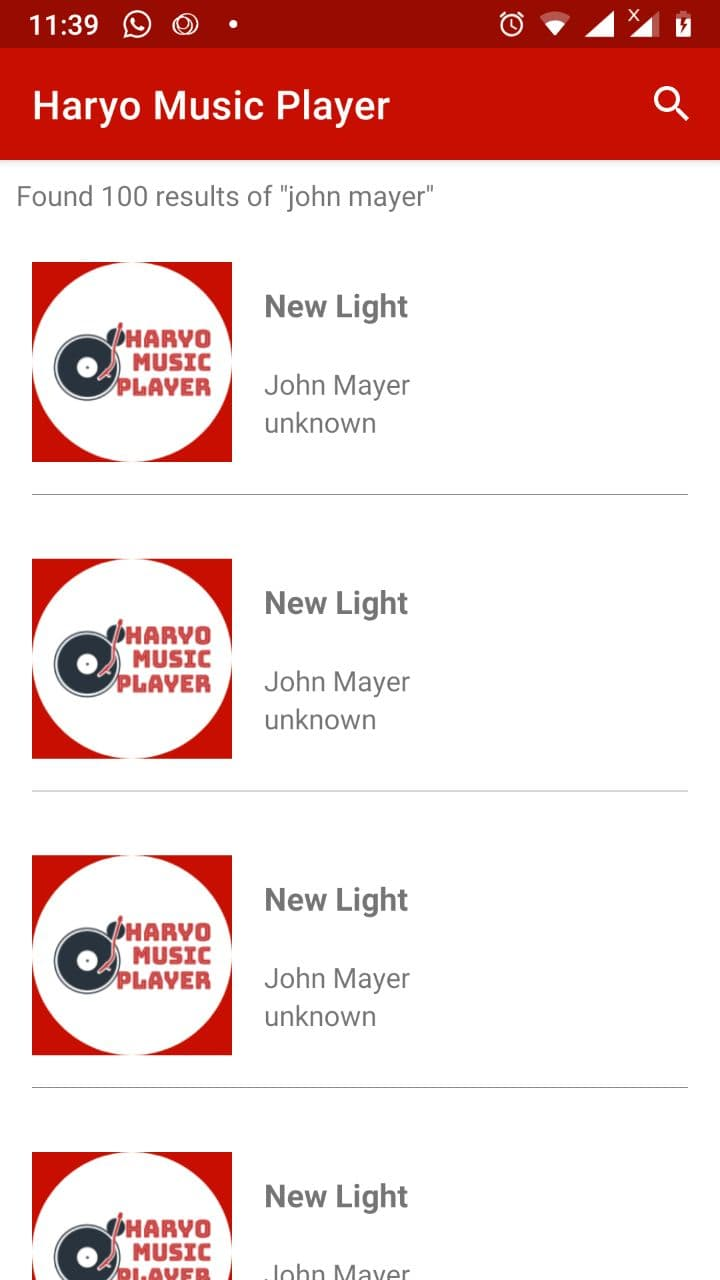
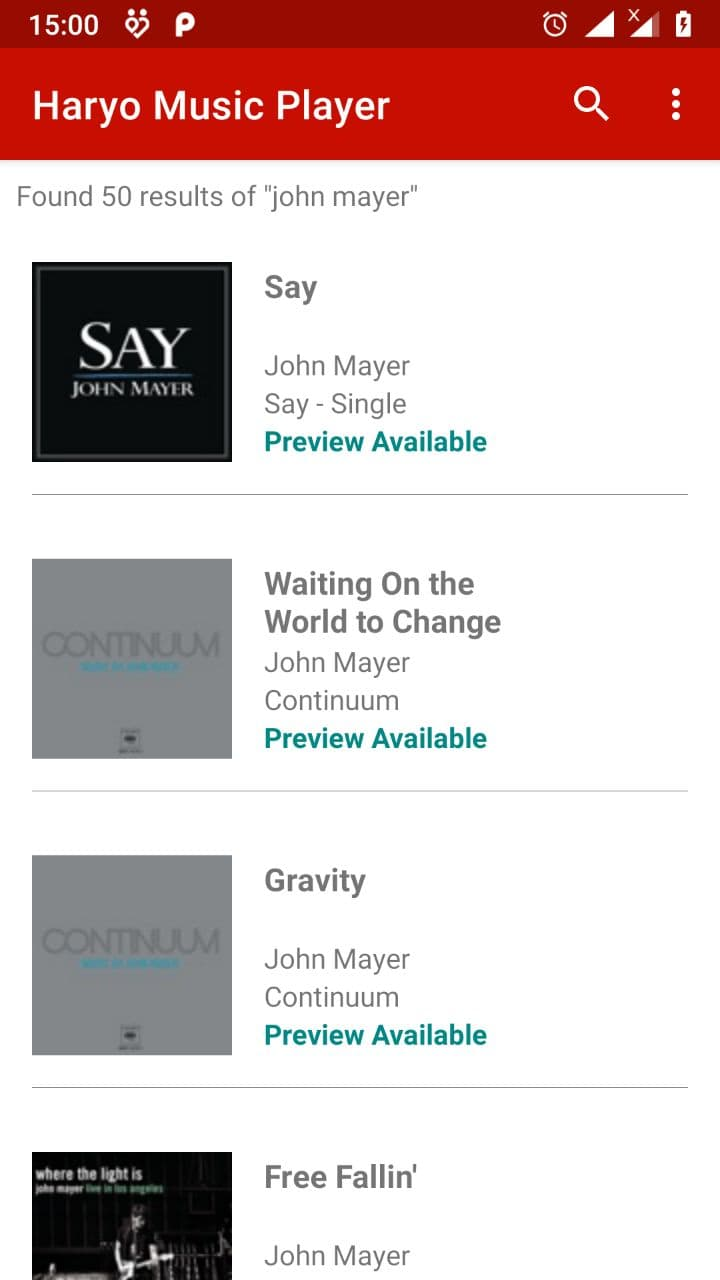
update About Page

diff --git a/app/src/main/java/com/haryop/haryomusicplayer/ui/main/MainActivity.kt b/app/src/main/java/com/haryop/haryomusicplayer/ui/main/MainActivity.kt
@@ -1,8 +1,10 @@
 package com.haryop.haryomusicplayer.ui.main
 
+import android.content.Intent
 import android.view.LayoutInflater
 import android.view.MenuItem
 import android.view.View
+import android.widget.Toast
 import androidx.appcompat.widget.SearchView
 import androidx.appcompat.widget.Toolbar
 import androidx.fragment.app.Fragment
@@ -12,8 +14,14 @@ import androidx.navigation.ui.AppBarConfiguration
 import androidx.navigation.ui.setupWithNavController
 import com.haryop.haryomusicplayer.R
 import com.haryop.haryomusicplayer.databinding.ActivityMainBinding
+import com.haryop.haryomusicplayer.ui.AboutActivity
 import com.haryop.synpulsefrontendchallenge.utils.BaseActivityBinding
+import com.haryop.synpulsefrontendchallenge.utils.comingSoon
 import dagger.hilt.android.AndroidEntryPoint
+import kotlinx.coroutines.CoroutineScope
+import kotlinx.coroutines.Dispatchers
+import kotlinx.coroutines.delay
+import kotlinx.coroutines.launch
 
 @AndroidEntryPoint
 class MainActivity : BaseActivityBinding<ActivityMainBinding>(), Toolbar.OnMenuItemClickListener {
@@ -45,6 +53,18 @@ class MainActivity : BaseActivityBinding<ActivityMainBinding>(), Toolbar.OnMenuI
             navController.popBackStack()
         }
 
+        navController.addOnDestinationChangedListener { controller, destination, arguments ->
+            blackscreen.visibility = View.GONE
+            mainToolbar.menu.findItem(R.id.action_search)?.collapseActionView()
+
+            if (destination.id == R.id.musicListFragment) {
+                mainToolbar.subtitle = ""
+                isLastFragment = true
+            } else {
+                isLastFragment = false
+            }
+        }
+
         mainToolbar.menu.findItem(R.id.action_search)
             ?.setOnActionExpandListener(object : MenuItem.OnActionExpandListener {
                 override fun onMenuItemActionExpand(item: MenuItem?): Boolean {
@@ -63,9 +83,12 @@ class MainActivity : BaseActivityBinding<ActivityMainBinding>(), Toolbar.OnMenuI
 
     override fun onMenuItemClick(item: MenuItem?): Boolean {
         when (item?.getItemId()) {
+            R.id.action_about -> {
+                openAbout()
+            }
             R.id.action_search -> {
                 var searchView: SearchView = item.actionView as SearchView
-                searchView.queryHint = "search articles..."
+                searchView.queryHint = "search track, artist, or  album"
                 searchView.setOnQueryTextListener(object :
                     SearchView.OnQueryTextListener {
                     override fun onQueryTextSubmit(query: String?): Boolean {
@@ -88,6 +111,11 @@ class MainActivity : BaseActivityBinding<ActivityMainBinding>(), Toolbar.OnMenuI
         return false
     }
 
+    fun openAbout() {
+        var intent = Intent(this@MainActivity, AboutActivity::class.java)
+        startActivity(intent)
+    }
+
     fun reSearchPage(_query: String) = with(binding) {
         var mainFragment: MusicListFragment = getForegroundFragment() as MusicListFragment
         mainFragment.onReSearch(_query)
@@ -100,11 +128,27 @@ class MainActivity : BaseActivityBinding<ActivityMainBinding>(), Toolbar.OnMenuI
             .getFragments().get(0)
     }
 
+    var isLastFragment: Boolean = false
+    private var doubleBackToExitPressedOnce = false
+    val activityScope = CoroutineScope(Dispatchers.Main)
     override fun onBackPressed() {
         if (binding.blackscreen.visibility == View.VISIBLE) {
             binding.blackscreen.visibility = View.GONE
             binding.mainToolbar.menu.findItem(R.id.action_search)?.collapseActionView()
-        }else{
+        } else if (isLastFragment) {
+            if (doubleBackToExitPressedOnce) {
+                super.onBackPressed()
+                return
+            }
+
+            this.doubleBackToExitPressedOnce = true
+            Toast.makeText(this, "Please click BACK again to exit", Toast.LENGTH_SHORT).show()
+
+            activityScope.launch {
+                delay(2000)
+                doubleBackToExitPressedOnce = false
+            }
+        } else {
             super.onBackPressed()
         }
     }

diff --git a/app/src/main/java/com/haryop/haryomusicplayer/ui/main/MusicListFragment.kt b/app/src/main/java/com/haryop/haryomusicplayer/ui/main/MusicListFragment.kt
@@ -8,7 +8,6 @@ import androidx.fragment.app.viewModels
 import androidx.recyclerview.widget.LinearLayoutManager
 import androidx.swiperefreshlayout.widget.SwipeRefreshLayout
 import com.haryop.haryomusicplayer.R
-import com.haryop.haryomusicplayer.data.entities.ContentEntity
 import com.haryop.haryomusicplayer.databinding.FragmentMainBinding
 import com.haryop.mynewsportal.utils.Resource
 import com.haryop.synpulsefrontendchallenge.ui.companylist.MusicListAdapter
@@ -53,12 +52,20 @@ class MusicListFragment : BaseFragmentBinding<FragmentMainBinding>(),
     private fun onSearchContentObserver() = with(viewbinding) {
         viewModel.getSearchContent.observe(viewLifecycleOwner, {
 
+            welcome.visibility = View.GONE
+
             when (it.status) {
                 Resource.Status.SUCCESS -> {
                     foundLabel.visibility = View.VISIBLE
                     swipeContainer.isRefreshing = false
                     if (!it.data.isNullOrEmpty()) {
-                        foundLabel.setText(resources.getString(R.string.found_label, ""+it.data.size, query))
+                        foundLabel.setText(
+                            resources.getString(
+                                R.string.found_label,
+                                "" + it.data.size,
+                                query
+                            )
+                        )
 
                         var items = ArrayList<Any>()
                         items.addAll(ArrayList(it.data))
@@ -88,11 +95,11 @@ class MusicListFragment : BaseFragmentBinding<FragmentMainBinding>(),
     }
 
     override fun onClickedItem(preview_url: String, isStreamable: Boolean, isPlaying: Boolean) {
-        if(isStreamable==false) {
+        if (isStreamable == false) {
             comingSoon("\nPreview Not Availalble")
-        }else if(isPlaying){
+        } else if (isPlaying) {
             comingSoon("\nPlay Track")
-        }else{
+        } else {
             comingSoon("\nStop Track")
         }
 

diff --git a/app/src/main/java/com/haryop/haryomusicplayer/ui/AboutActivity.kt b/app/src/main/java/com/haryop/haryomusicplayer/ui/AboutActivity.kt
@@ -1,0 +1,44 @@
+package com.haryop.haryomusicplayer.ui
+
+import android.view.LayoutInflater
+import android.view.MenuItem
+import android.view.View
+import com.haryop.haryomusicplayer.R
+import com.haryop.haryomusicplayer.databinding.ActivityAboutBinding
+import com.haryop.synpulsefrontendchallenge.utils.BaseActivityBinding
+
+class AboutActivity:BaseActivityBinding<ActivityAboutBinding>() {
+    override val bindingInflater: (LayoutInflater) -> ActivityAboutBinding
+        get() = ActivityAboutBinding::inflate
+
+    override fun setupView(binding: ActivityAboutBinding) {
+        setUpAction(binding.root)
+        setupActionbar()
+    }
+
+    fun setUpAction(view: View) = with(binding) {
+        val filename = "about_content.html"
+        webviewAbout.getSettings().setJavaScriptEnabled(true);
+        webviewAbout.loadUrl("file:///android_asset/" + filename);
+    }
+
+    fun setupActionbar() {
+        var actionbar = supportActionBar
+        actionbar?.title = resources.getString(R.string.about)
+        getSupportActionBar()?.setDisplayHomeAsUpEnabled(true);
+        getSupportActionBar()?.setDisplayShowHomeEnabled(true);
+    }
+
+    override fun onOptionsItemSelected(item: MenuItem): Boolean {
+        return when (item.itemId) {
+            android.R.id.home -> {
+                finish()
+                return true
+            }
+            else -> {
+                return super.onOptionsItemSelected(item)
+            }
+        }
+    }
+
+}

diff --git a/app/src/main/assets/about_content.html b/app/src/main/assets/about_content.html
@@ -1,0 +1,7 @@
+<h1>Haryo Music Player Android App</h1>
+<p>Hi! My name is <b>Haryo Pramanto</b> and you can call me <b>Haryo</b>. this is my approach for <b>Telkomsel's Fita/Kuncie Technical Test Assignment</b>   by making a music player android application using API from <a href="https://affiliate.itunes.apple.com/resources/documentation/itunes-store-web-service-search-api">iTunes Search API</a>
+</p>
+
+<p>See more about my approach documentation:<br>
+    <a href="https://github.com/CumiTerbang/HaryoMusicPlayer">My Github Repository Link</a>
+</p>

diff --git a/README.md b/README.md
@@ -2,11 +2,11 @@
 
 <img src="https://github.com/CumiTerbang/HaryoMusicPlayer/blob/master/readme_assets/screenshot_1.jpg" width="200" height="355,56"> <img src="https://github.com/CumiTerbang/HaryoMusicPlayer/blob/master/readme_assets/screenshot_2.jpg" width="200" height="355,56"> <img src="https://github.com/CumiTerbang/HaryoMusicPlayer/blob/master/readme_assets/screenshot_3.jpg" width="200" height="355,56">
 
-an android app demo to browse and read international news articles using API from  [newsapi.org](https://newsapi.org/)
+an android app demo to search your favorite music tracks, artists and albums using API from  [iTunes Search API](https://affiliate.itunes.apple.com/resources/documentation/itunes-store-web-service-search-api)
 
-this is my approach for Fita/Kuncie Telkomsel Technical Test provided by HuntHire by making an android application based on the requirement as the solution
+this is my approach for Fita/Kuncie Telkomsel Technical Test by making an android application based on the requirement as the solution
 
-Click [here](https://drive.google.com/file/d/1hfTtxqt7IB4BPQDB1EKHBLWP8oVY6gad/view?usp=sharing) to download the app
+Click [here](https://drive.google.com/file/d/17NFtjAtwm5G8Pc26ZhVRboN2BwoAMX0C/view?usp=sharing) to download the app
 
 
 ## Features
@@ -26,10 +26,8 @@ Click [here](https://drive.google.com/file/d/1hfTtxqt7IB4BPQDB1EKHBLWP8oVY6gad/v
     - Open your Android Studio
     - New -> Project from Version Control..
     - Paste the url, click OK
-2. Replace demo api key with your [newsapi.org](newsapi.org) api key [here](https://github.com/CumiTerbang/MyNewsPortal/tree/master/app/src/main/java/com/haryop/mynewsportal/utils/ConstantsObj.kt)
-    - utils > ConstantsObj > NEWSAPIORG_APIKEY
-3. Prepare the Android Virtual Device or real device
-4. Build and deploy the app module
+2. Prepare the Android Virtual Device or real device
+3. Build and deploy the app module
 
 ## Code Design & Structure
 This project is using MVVM design pattern. The project directory consist of 4 directories:
